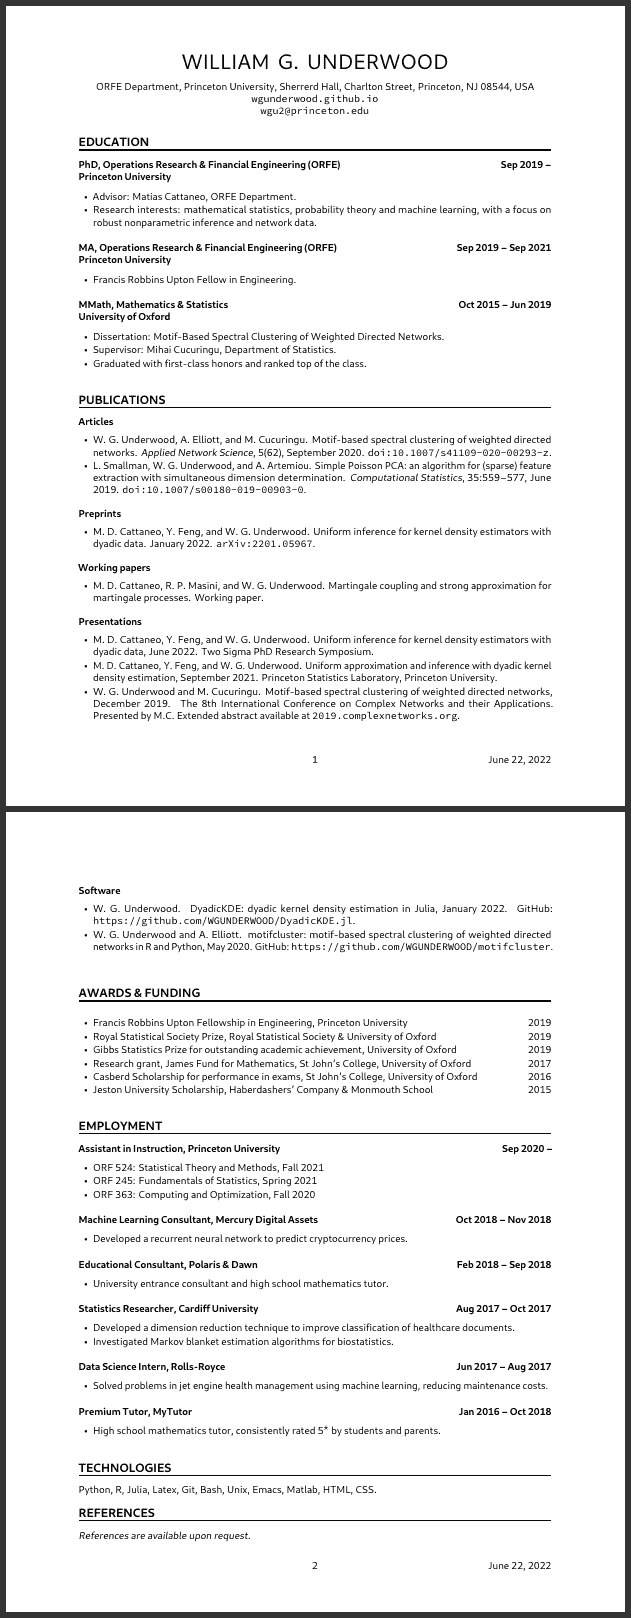
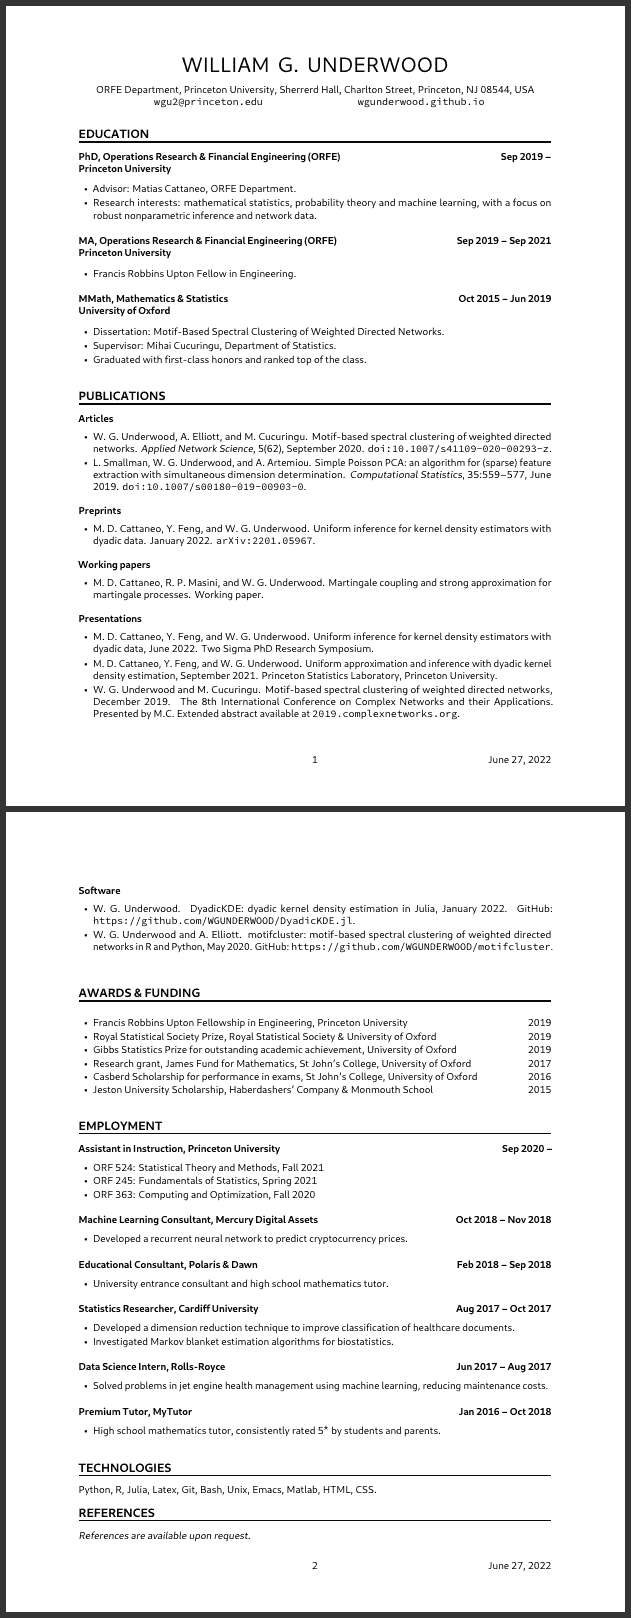
moving email and website onto single line

Changed region(s): [[0.1204, 0.0309, 0.8732, 0.4635], [0.7528, 0.0309, 0.8431, 0.0618], [0.8431, 0.1854, 0.8732, 0.2163]]

diff --git a/WGUnderwood.tex b/WGUnderwood.tex
@@ -19,7 +19,6 @@
   USA}
 \youremail{wgu2@princeton.edu}
 \yourwebsite{wgunderwood.github.io}
-\yourphone{}
 
 
 % Begin document

diff --git a/README.md b/README.md
@@ -23,7 +23,7 @@ My current CV, built with a custom TeX template.
 - A full list of required packages is given in [wgu-cv.cls]
 
 ### Features
-- Option to include address, email and phone number
+- Include address, email and website
 - Fonts used are [Cantarell] (regular, bold, oblique), and [Source Code Pro] (monospace)
 - Email addresses are automatically typeset as monospace clickable mailto links
 
